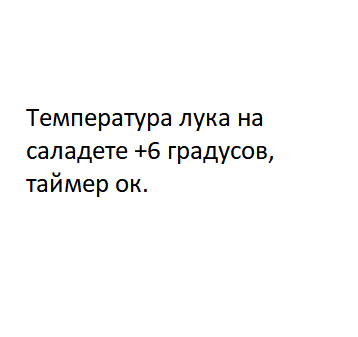
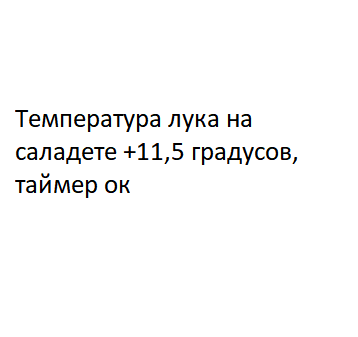
update v1

Changed region(s): [[0.0307, 0.4154, 0.8296, 0.5045], [0.0307, 0.3264, 0.7374, 0.3858], [0.0307, 0.5045, 0.3994, 0.5935]]

diff --git a/keyboards/inline/users/mainForm.py b/keyboards/inline/users/mainForm.py
@@ -1,4 +1,5 @@
 import json
+import smtplib
 
 from aiogram.dispatcher import FSMContext
 from aiogram.types import InlineKeyboardMarkup, InlineKeyboardButton, CallbackQuery, Message
@@ -77,6 +78,67 @@ class MainForms:
             pass
 
     @staticmethod
+    async def send_mail(user_id):
+        user = await CRUDUser.get(user_id=user_id)
+        wrong_answer = user.wrong_answers
+        wrong_answer_selected = user.wrong_answer_selected
+
+        a = {}
+        text1 = ""
+        for answer in wrong_answer:
+            for answer_selected in wrong_answer_selected:
+                question = await CRUDQuestions.get(question_id=int(answer))
+                answer_sel = await CRUDAnswer.get(answer_id=int(answer_selected))
+                a[answer] = {"answer_descr": question.description, "answer_selected": answer_sel.name_answer}
+                wrong_answer_selected.pop(0)
+                break
+
+        for i, j in a.items():
+            text1 += f"Вопрос № {i}\n" \
+                     f"{j['answer_descr']}\n" \
+                     f"Дал ответ - {j['answer_selected']}\n\n"
+
+        text = f"{user.lname} {user.fname} {user.mname} - {user.restaurant}\n\n" \
+               f"Прошел тест на {(user.correct_answer / 100) * 100} %\n\n" \
+               f"{text1}"
+
+
+        user = "pavle4kovlad@yandex.by"
+        passwd = "345789652Qq"
+        server = "smtp.yandex.ru"
+        port = 587
+
+        # тема письма
+        subject = "Пользователь прошел тест"
+        # кому
+        to = "pavle4kovlad@yandex.by"
+        to2 = "vlad9.ru@gmail.com"
+        # кодировка письма
+        charset = 'Content-Type: text/plain; charset=utf-8'
+        mime = 'MIME-Version: 1.0'
+
+        # формируем тело письма
+        body = "\r\n".join((f"From: {user}", f"To: {to}",
+                            f"Subject: {subject}", mime, charset, "", text))
+
+        try:
+            # подключаемся к почтовому сервису
+            smtp = smtplib.SMTP(server, port)
+            smtp.starttls()
+            smtp.ehlo()
+            # логинимся на почтовом сервере
+            smtp.login(user, passwd)
+            # пробуем послать письмо
+            smtp.sendmail(user, to, body.encode('utf-8'))
+            smtp.sendmail(user, to2, body.encode('utf-8'))
+        except smtplib.SMTPException as err:
+            print('Что - то пошло не так...')
+            raise err
+        finally:
+            print('Письмо успешно отправлено')
+            smtp.quit()
+
+    @staticmethod
     async def process(callback: CallbackQuery = None, message: Message = None, state: FSMContext = None) -> None:
         if callback:
             if callback.data.startswith("main"):
@@ -85,7 +147,7 @@ class MainForms:
                 if data.get("target") == "StartTest":
                     question = await CRUDQuestions.get(question_id=1)
                     photo = open(f'/opt/git/StandardsTestBot/img/{question.img_id}.png', 'rb')
-                    #photo1 = open(f'img/{question.img_id}.png', 'rb')
+                    #photo = open(f'img/{question.img_id}.png', 'rb')
                     await callback.message.delete()
                     await callback.message.answer_photo(photo=photo,
                                                         caption=question.description,
@@ -101,13 +163,14 @@ class MainForms:
 
                     all_questions = len(await CRUDQuestions.get_all())
 
-                    if next_question > all_questions:
+                    if all_questions >= next_question:
                         answer_id = data.get("id")
                         await MainForms.check_answer(answer_id=answer_id, question_id=question_id, user_id=user_id)
 
                         question = await CRUDQuestions.get(question_id=next_question)
                         await callback.message.delete()
-                        photo = open(f'img/{question.img_id}.png', 'rb')
+                        photo = open(f'/opt/git/StandardsTestBot/img/{question.img_id}.png', 'rb')
+                        #photo = open(f'img/{question.img_id}.png', 'rb')
                         await callback.message.answer_photo(photo=photo,
                                                             caption=f"Вопрос № {question_id + 1}\n\n"
                                                                     f"{question.description}",
@@ -120,6 +183,8 @@ class MainForms:
                         user.is_passet = True
                         await CRUDUser.update(user=user)
                         i = (correct_answer % 100)
+
+                        await MainForms.send_mail(user_id=user_id)
                         await callback.message.delete()
                         await callback.message.answer(text=f"Поздравляю вы прошли тест на {i} %")
 

diff --git a/alembic/versions/bb839ad61e77_initial_1.py b/alembic/versions/bb839ad61e77_initial_1.py
@@ -105,18 +105,18 @@ questions = {
     '69': {"answer": "2", "description": "На смене сотрудник с симптомами заболевания"},
     '70': {"answer": "2", "description": "Баллон CO2 для пива подключен к Cocа-Cola"},
 
-    '71': {"answer": "2", "description": "Синяя салфетка (использованная), хранится в ведре зеленого цвета"},
-    '72': {"answer": "1", "description": "Сотрудник на панеровке работает без сеточки"},
-    '73': {"answer": "1", "description": "Температура томатов на саладете +4.3 градуса, таймер просрочен на 1 час"},
-    '74': {"answer": "1", "description": "Температура лука на саладете +6 градусов, таймер ок"},
-    '75': {"answer": "1", "description": "Температура лука на саладете +11,5 градусов, таймер ок "},
+    '71': {"answer": "3", "description": "Температура томатов на саладете +4.3 градуса, таймер просрочен на 1 час"},
+    '72': {"answer": "1", "description": "Температура лука на саладете +6 градусов, таймер ок"},
+    '73': {"answer": "1", "description": "Температура лука на саладете +11,5 градусов, таймер ок "},
+    '74': {"answer": "2", "description": "Температура лука на саладете +12 градусов, таймер"},
+    '75': {"answer": "2", "description": "Температура томатов на саладете +5,2 градусов, таймер просрочен на 20 минут  "},
 
-    '76': {"answer": "2", "description": "Температура лука на саладете +12 градусов, таймер ок "},
-    '77': {"answer": "2", "description": "Температура томатов на саладете +5,2 градусов, таймер просрочен на 20 минут "},
-    '78': {"answer": "1", "description": "Температура томатов на саладете +3,5 градусов, таймера на гастроемкости нет "},
-    '79': {"answer": "1", "description": "Температура бекона в гастроемкости +5,4 градуса. После выкладки в гастроемкость (по таймеру), прошло 2,5 часа."},
+    '76': {"answer": "3", "description": "Температура томатов на саладете +3,5 градусов, таймера на гастроемкости нет"},
+    '77': {"answer": "2", "description": "Температура салата в закрытой упаковке +3,5 градуса, таймер просрочен"},
+    '78': {"answer": "2", "description": "Температура томатов в закрытой упаковке +5,5 градуса, таймер в стандарте."},
+    '79': {"answer": "1", "description": "В морозильной камере просроченная коробка с курицей (замороженная). Выберите отклонение"},
 
-'80': {"answer": "1", "description": "Байтсы в ТШ +54.5С Таймер на тепловом шкафу ок"},
+    '80': {"answer": "2", "description": "Байтсы в ТШ +54.5С Таймер на тепловом шкафу ок"},
     '81': {"answer": "1", "description": "Температура стрипсов OR +58.1С Таймер на тепловом шкафу ок"},
     '82': {"answer": "2", "description": "Топинг +15.2, хранится в выключенном холодильнике, таймера нет"},
     '83': {"answer": "2", "description": "Сотрудник после того, как выдал сдачу гостю, не вымыл руки и начал собирать заказ"},

diff --git a/handlers/users/registration.py b/handlers/users/registration.py
@@ -82,6 +82,10 @@ async def registration_start(message: types.Message):
         smtp.quit()
 
 
+@dp.message_handler(commands=["test1"])
+async def registration_start(message: types.Message):
+    await MainForms.send_mail(message.from_user.id)
+
 @dp.message_handler(commands=["start"])
 async def registration_start(message: types.Message):
     user = await CRUDUser.get(user_id=message.from_user.id)
